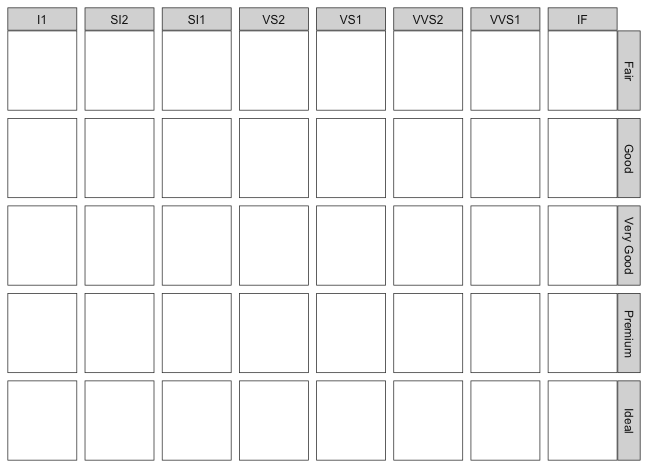
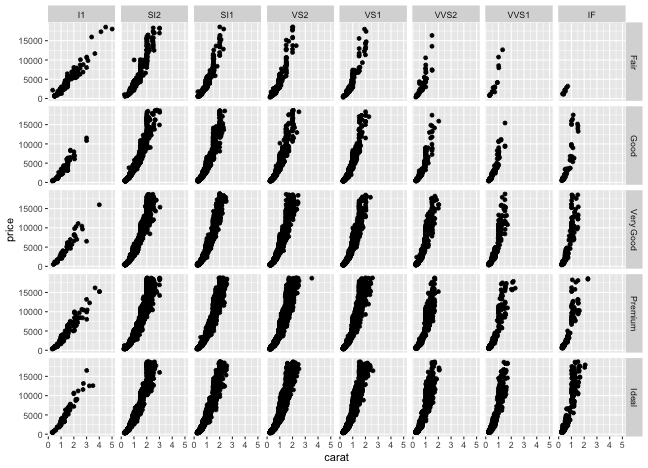
:beer: Give a talk

diff --git a/makino2020r/1-basic-r.html b/makino2020r/1-basic-r.html
@@ -61,7 +61,7 @@ if (!doNotTrack) {
 <div class="reveal">
 <div class="slides">
 <section>
-<h1 id="hands-on-r-lecture-for-makino-lab"><a href=".">Hands-on R Lecture for Makino Lab</a></h1>
+<h1 id="hands-on-introduction-to-r-2020"><a href=".">Hands-on Introduction to R 2020</a></h1>
 <link rel="stylesheet" href="style.css">
 <div class="author">
 岩嵜 航 (Watal M. Iwasaki)
@@ -84,14 +84,12 @@ if (!doNotTrack) {
 </section>
 <section>
 <h2 id="r-basics-index">R basics: Index</h2>
-<ul>
-<li>Setup Mac and R environment</li>
-<li>Conversation with R</li>
-<li>Create a &ldquo;project&rdquo; and &ldquo;script&rdquo;</li>
-<li>Read and write table files</li>
-<li>Package</li>
-<li>Errors and questions</li>
-</ul>
+<p>🖥 Setup R environment</p>
+<p>👽 Conversation with R</p>
+<p>📁 Create a &ldquo;project&rdquo; and &ldquo;script&rdquo;</p>
+<p>➕ Basic operations and types</p>
+<p>📦 Package</p>
+<p>❓ Errors and questions</p>
 
 </section>
 <section>
@@ -153,7 +151,7 @@ if (!doNotTrack) {
 <h2 id="setup-mac-environment">Setup Mac environment</h2>
 <ul>
 <li>
-<p>Set OS language to English (System Preferences → Language &amp; Region)</p>
+<p>Set OS language to <strong>English</strong> (System Preferences → Language &amp; Region)</p>
 </li>
 <li>
 <p>Install <strong>Command Line Tools</strong> via <strong>Terminal.app</strong>:</p>
@@ -189,8 +187,22 @@ ls
 </section>
 <section>
 <h2 id="launch-rstudio-and-play-with-console">Launch RStudio and play with Console</h2>
-<p>Details will be explained later.</p>
+<p><strong>Workspace (Environment)</strong> = a set of temporary objects</p>
 <img src="/slides/figure/rstudio/console.png" class="screenshot" width="100%">
+</section>
+<section>
+<h2 id="configure-rstudio-not-to-saveload-workspace">Configure RStudio NOT to save/load workspace</h2>
+<p><i class="fab fa-fw fa-lg fa-apple"></i> RStudio → Preferences   <kbd>command</kbd><kbd>,</kbd><br>
+<i class="fab fa-fw fa-lg fa-windows"></i> Tools → Global options</p>
+<p><strong>Uncheck</strong> &ldquo;Restore &hellip;&quot;, Choose <strong>Never</strong> for &ldquo;Save workspace &hellip;&quot;.</p>
+<figure style="margin: 0;">
+<a href="https://r4ds.had.co.nz/workflow-projects.html">
+<img src="/slides/figure/rstudio/preferences-workspace.png" width="75%"
+     style="object-fit: cover; object-position: top; height: 450px;">
+<figcaption class="url">https://r4ds.had.co.nz/workflow-projects.html</figcaption>
+</a>
+</figure>
+
 </section>
 <section>
 <h2 id="create-project">Create &ldquo;Project&rdquo;</h2>
@@ -229,20 +241,6 @@ Execute them with <kbd>ctrl</kbd><kbd>return</kbd></p>
 └── visualize.R            # 作図のスクリプト
 </code></pre><p>プロジェクト最上階を作業ディレクトリとし、<br>
 ファイル読み書きの基準にする。(後で詳しく)</p>
-
-</section>
-<section>
-<h2 id="configure-rstudio-not-to-saveload-workspace">Configure RStudio NOT to save/load workspace</h2>
-<p><i class="fab fa-fw fa-lg fa-apple"></i> RStudio → Preferences   <kbd>command</kbd><kbd>,</kbd><br>
-<i class="fab fa-fw fa-lg fa-windows"></i> Tools → Global options</p>
-<p><strong>Uncheck</strong> &ldquo;Restore &hellip;&quot;, Choose <strong>Never</strong> for &ldquo;Save workspace &hellip;&quot;.</p>
-<figure style="margin: 0;">
-<a href="https://r4ds.had.co.nz/workflow-projects.html">
-<img src="/slides/figure/rstudio/preferences-workspace.png" width="75%"
-     style="object-fit: cover; object-position: top; height: 450px;">
-<figcaption class="url">https://r4ds.had.co.nz/workflow-projects.html</figcaption>
-</a>
-</figure>
 
 </section>
 <section>
@@ -314,6 +312,21 @@ Execute them with <kbd>ctrl</kbd><kbd>return</kbd></p>
 <strong><code>tibble</code></strong> とか <strong><code>tbl_df</code></strong> と呼ばれる亜種もあるけどほぼ同じ。</li>
 </ul>
 
+</section>
+<section>
+<h2 id="function-関数">Function (関数)</h2>
+<p>変数を受け取って、何か仕事して、返す命令セット</p>
+<div class="highlight"><pre class="chroma"><code class="language-r" data-lang="r"><span class="n">x</span> <span class="o">=</span> <span class="nf">seq</span><span class="p">(</span><span class="m">1</span><span class="p">,</span> <span class="m">3</span><span class="p">)</span>  <span class="c1"># 1と3を渡すとvectorが返ってくる</span>
+<span class="n">x</span>
+</code></pre></div><pre><code>[1] 1 2 3
+</code></pre><div class="highlight"><pre class="chroma"><code class="language-r" data-lang="r"><span class="nf">sum</span><span class="p">(</span><span class="n">x</span><span class="p">)</span>         <span class="c1"># vectorを渡すと足し算が返ってくる</span>
+</code></pre></div><pre><code>[1] 6
+</code></pre><div class="highlight"><pre class="chroma"><code class="language-r" data-lang="r"><span class="n">square</span> <span class="o">=</span> <span class="nf">function</span><span class="p">(</span><span class="n">something</span><span class="p">)</span> <span class="p">{</span>  <span class="c1"># 自分の関数を定義</span>
+  <span class="n">something</span> <span class="o">**</span> <span class="m">2</span>
+<span class="p">}</span>
+<span class="nf">square</span><span class="p">(</span><span class="n">x</span><span class="p">)</span>                       <span class="c1"># 使ってみる</span>
+</code></pre></div><pre><code>[1] 1 4 9
+</code></pre>
 </section>
 <section>
 <h2 id="vector-1-dimensional-array"><code>vector</code>: 1-dimensional array</h2>
@@ -575,6 +588,8 @@ Rコマンドと結果を埋め込んだPDFやHTMLを作る。<br>
 <dd>「<a href="https://heavywatal.github.io/slides/nagoya2018/">Rにやらせて楽しよう — データの可視化と下ごしらえ</a>」
 岩嵜航 2018</dd>
 <dd>「Rを用いたデータ解析の基礎と応用」石川由希 2019 名古屋大学</dd>
+<dd>「<a href="https://heavywatal.github.io/slides/tmd2019/">Rによるデータ前処理実習</a>」
+岩嵜航 2019 東京医科歯科大</dd>
 </dl>
 <a href="2-ggplot.html" rel="next" class="readmore">
 2. Visualization with R

diff --git a/makino2020r/2-ggplot.html b/makino2020r/2-ggplot.html
@@ -62,7 +62,7 @@ if (!doNotTrack) {
 <div class="slides">
 <section>
 <link rel="stylesheet" href="style.css">
-<h1 id="hands-on-r-lecture-for-makino-lab"><a href=".">Hands-on R Lecture for Makino Lab</a></h1>
+<h1 id="hands-on-introduction-to-r-2020"><a href=".">Hands-on Introduction to R 2020</a></h1>
 <div class="author">
 岩嵜 航 (Watal M. Iwasaki)
 </div>
@@ -606,7 +606,7 @@ e.g., <a href="https://colorbrewer2.org/#type=diverging&amp;scheme=Spectral&amp;
 <h2 id="値に応じて切り分けて表示-1変数facet">値に応じて切り分けて表示 (1変数facet)</h2>
 <p>ggplotの真骨頂！
 これをR標準グラフィックスでやるのは結構たいへん。</p>
-<div class="highlight"><pre class="chroma"><code class="language-r" data-lang="r"><span class="n">p1</span> <span class="o">+</span> <span class="nf">facet_wrap</span><span class="p">(</span><span class="o">~</span> <span class="n">clarity</span><span class="p">,</span> <span class="n">ncol</span> <span class="o">=</span> <span class="m">4L</span><span class="p">)</span>
+<div class="highlight"><pre class="chroma"><code class="language-r" data-lang="r"><span class="n">p3</span> <span class="o">+</span> <span class="nf">facet_wrap</span><span class="p">(</span><span class="o">~</span> <span class="n">clarity</span><span class="p">,</span> <span class="n">ncol</span> <span class="o">=</span> <span class="m">4L</span><span class="p">)</span>
 </code></pre></div><p><img src="figure/facet-wrap-1.png" alt="plot of chunk facet-wrap"></p>
 
 </section>
@@ -614,7 +614,7 @@ e.g., <a href="https://colorbrewer2.org/#type=diverging&amp;scheme=Spectral&amp;
 <h2 id="値に応じて切り分けて表示-2変数facet">値に応じて切り分けて表示 (≥2変数facet)</h2>
 <p>ggplotの真骨頂！
 これをR標準グラフィックスでやるのは結構たいへん。</p>
-<div class="highlight"><pre class="chroma"><code class="language-r" data-lang="r"><span class="n">p1</span> <span class="o">+</span> <span class="nf">facet_grid</span><span class="p">(</span><span class="n">cut</span> <span class="o">~</span> <span class="n">clarity</span><span class="p">)</span>
+<div class="highlight"><pre class="chroma"><code class="language-r" data-lang="r"><span class="n">p3</span> <span class="o">+</span> <span class="nf">facet_grid</span><span class="p">(</span><span class="n">cut</span> <span class="o">~</span> <span class="n">clarity</span><span class="p">)</span>
 </code></pre></div><p><img src="figure/facet-grid-1.png" alt="plot of chunk facet-grid"></p>
 
 </section>
@@ -762,6 +762,8 @@ e.g., <a href="https://colorbrewer2.org/#type=diverging&amp;scheme=Spectral&amp;
 <dd>「<a href="https://heavywatal.github.io/slides/nagoya2018/">Rにやらせて楽しよう — データの可視化と下ごしらえ</a>」
 岩嵜航 2018</dd>
 <dd>「Rを用いたデータ解析の基礎と応用」石川由希 2019 名古屋大学</dd>
+<dd>「<a href="https://heavywatal.github.io/slides/tmd2019/">Rによるデータ前処理実習</a>」
+岩嵜航 2019 東京医科歯科大</dd>
 <dt>ggplot2公式ドキュメント</dt>
 <dd><a href="https://ggplot2.tidyverse.org/">https://ggplot2.tidyverse.org/</a></dd>
 </dl>

diff --git a/makino2020r/0-why-r.html b/makino2020r/0-why-r.html
@@ -62,7 +62,7 @@ if (!doNotTrack) {
 <div class="slides">
 <section>
 <link rel="stylesheet" href="style.css">
-<h1 id="hands-on-r-lecture-for-makino-lab"><a href=".">Hands-on R Lecture for Makino Lab</a></h1>
+<h1 id="hands-on-introduction-to-r-2020"><a href=".">Hands-on Introduction to R 2020</a></h1>
 <div class="author">
 岩嵜 航 (Watal M. Iwasaki)
 </div>
@@ -250,13 +250,14 @@ https://en.wikipedia.org/wiki/<br>Standing_on_the_shoulders_of_giants
 
 </section>
 <section>
-<h2 id="goal-of-this-hands-on-lecture">Goal of this hands-on lecture</h2>
-<h3 id="-strikewant-to-do-reproducible-research-effortlesslystrike">✅ <strike>Want to do reproducible research effortlessly</strike></h3>
-<h3 id="-know-you-can-do-this-and-that-with-r">⬜ Know you can do this and that with R</h3>
-<h3 id="-know-whowherehow-to-consult">⬜ Know who/where/how to consult</h3>
+<h2 id="このハンズオンr入門の目標">このハンズオンR入門の目標</h2>
+<h3 id="-strike再現可能な解析を楽にやりたいstrike">✅ <strike>再現可能な解析を楽にやりたい</strike></h3>
+<h3 id="-あれもこれもrでできそう">⬜ あれもこれもRでできそう！</h3>
+<h3 id="-やりたくなったらこうやって調べればいいんだな">⬜ やりたくなったらこうやって調べればいいんだな</h3>
 <br>
-That's all. You don't have to remember details.
-<p>This slide deck is also available online:
+That's all.
+この3点さえ押さえれば、個々の方法は覚えなくても大丈夫。
+<p>このスライドもオンラインで読める:
 <br>
 <a href="https://heavywatal.github.io/slides/">https://heavywatal.github.io/slides/</a>
 </section>
@@ -271,6 +272,8 @@ That's all. You don't have to remember details.
 <dd>「<a href="https://heavywatal.github.io/slides/nagoya2018/">Rにやらせて楽しよう — データの可視化と下ごしらえ</a>」
 岩嵜航 2018</dd>
 <dd>「Rを用いたデータ解析の基礎と応用」石川由希 2019 名古屋大学</dd>
+<dd>「<a href="https://heavywatal.github.io/slides/tmd2019/">Rによるデータ前処理実習</a>」
+岩嵜航 2019 東京医科歯科大</dd>
 <dt>Irreproducible thesis</dt>
 <dd>SOKENDAI student M. S. (now R user)</dd>
 </dl>

diff --git a/makino2020r/index.html b/makino2020r/index.html
@@ -61,16 +61,18 @@ if (!doNotTrack) {
 <header>
 <h1>Hands-on Introduction to R 2020</h1>
 </header>
+<p><strong>これから研究を始める大学生</strong>を主な対象としたR入門です。<br>
+英語スライドも混じっていますが<strong>今回は日本語で話します</strong>。</p>
 <p>牧野研輪読会
-<a href="https://amzn.to/2TpZFJv">&ldquo;RとStanではじめる ベイズ統計モデリングによるデータ分析入門&rdquo;</a><br>
-第2部 第1&ndash;3章</p>
-<h2 id="prerequisite">Prerequisite</h2>
-<p>Install R (≥3.6) and RStudio (≥1.3).</p>
+<a href="https://amzn.to/2TpZFJv">&ldquo;RとStanではじめる ベイズ統計モデリングによるデータ分析入門&rdquo;</a>第2部 第1&ndash;3章 の内容も含みます。</p>
+<h2 id="prerequisite-前準備">Prerequisite 前準備</h2>
+<p>Install <strong>R</strong> (≥3.6) and <strong>RStudio</strong> (≥1.3).
+That&rsquo;s all.</p>
 <p>The easiest way is to follow <a href="https://rstudio.com/products/rstudio/download/#download">the instruction of RStudio.com</a>.
 But I recommend using <a href="https://brew.sh/">Homebrew</a> for Mac users because it is also useful to install other tools.</p>
 <ol>
 <li>
-<p>Set OS language to English (System Preferences → Language &amp; Region).</p>
+<p>Set OS language to <strong>English</strong> (System Preferences → Language &amp; Region).</p>
 </li>
 <li>
 <p>Install <strong>Command Line Tools</strong> via <strong>Terminal.app</strong>:</p>

diff --git a/makino2020r/3-tidy-data.html b/makino2020r/3-tidy-data.html
@@ -62,7 +62,7 @@ if (!doNotTrack) {
 <div class="slides">
 <section>
 <link rel="stylesheet" href="style.css">
-<h1 id="hands-on-r-lecture-for-makino-lab"><a href=".">Hands-on R Lecture for Makino Lab</a></h1>
+<h1 id="hands-on-introduction-to-r-2020"><a href=".">Hands-on Introduction to R 2020</a></h1>
 <div class="author">
 岩嵜 航 (Watal M. Iwasaki)
 </div>
@@ -1131,6 +1131,8 @@ but it should have some regular patterns.</li>
 <dd>「<a href="https://heavywatal.github.io/slides/nagoya2018/">Rにやらせて楽しよう — データの可視化と下ごしらえ</a>」
 岩嵜航 2018</dd>
 <dd>「Rを用いたデータ解析の基礎と応用」石川由希 2019 名古屋大学</dd>
+<dd>「<a href="https://heavywatal.github.io/slides/tmd2019/">Rによるデータ前処理実習</a>」
+岩嵜航 2019 東京医科歯科大</dd>
 <dt>Official documents:</dt>
 <dd><a href="https://www.tidyverse.org/">tidyverse</a>,
 <a href="https://dplyr.tidyverse.org/">dplyr</a>,

diff --git a/makino2020r/4-statistics.html b/makino2020r/4-statistics.html
@@ -62,7 +62,7 @@ if (!doNotTrack) {
 <div class="slides">
 <section>
 <link rel="stylesheet" href="style.css">
-<h1 id="hands-on-r-lecture-for-makino-lab"><a href=".">Hands-on R Lecture for Makino Lab</a></h1>
+<h1 id="hands-on-introduction-to-r-2020"><a href=".">Hands-on Introduction to R 2020</a></h1>
 <div class="author">
 岩嵜 航 (Watal M. Iwasaki)
 </div>
